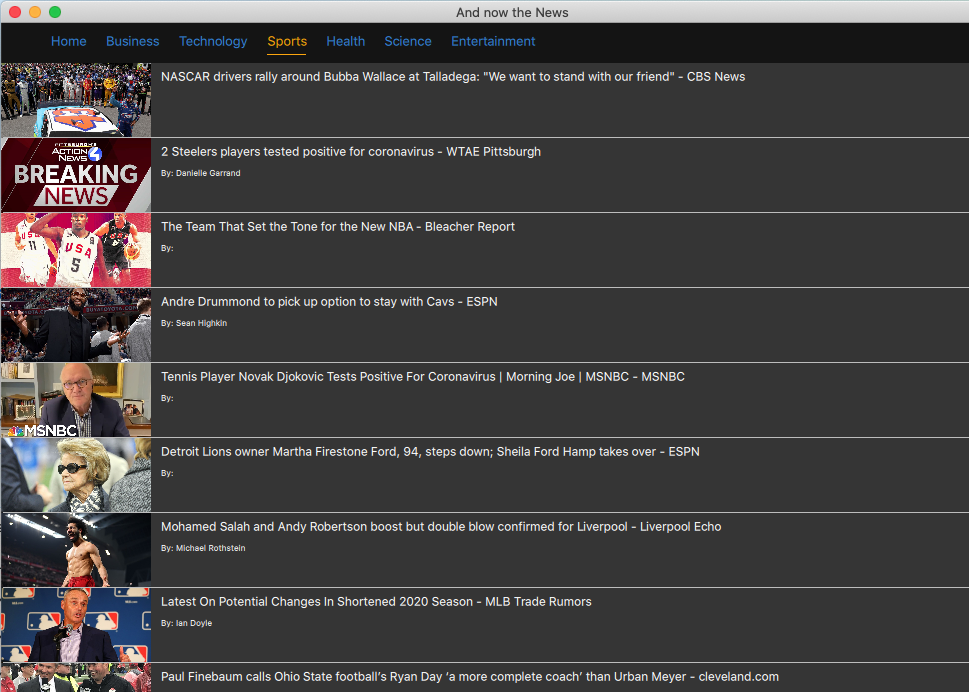
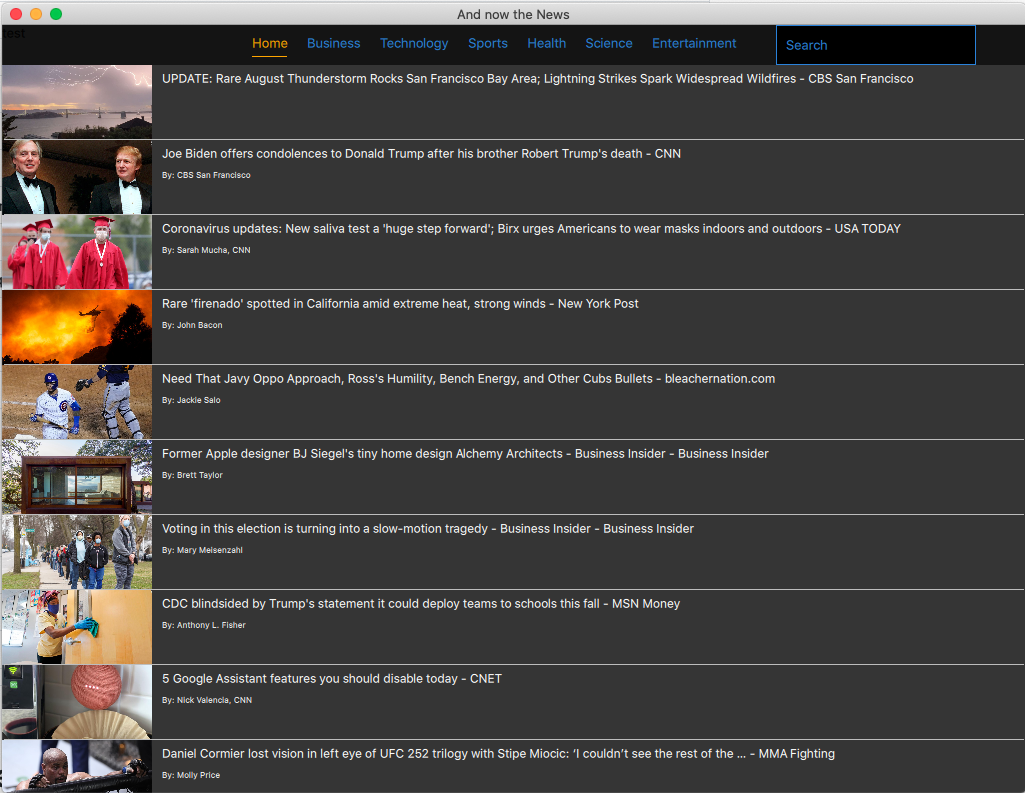
Update documentation and screenshots

Changed region(s): [[0.0, 0.0, 1.0, 1.0]]

diff --git a/README.md b/README.md
@@ -6,6 +6,8 @@ Small Qt Quick demo app. Loads a list of news items from NewsApi.org and provide
 
 The app starts off with a list to browse news stories. General news categories can be selected from the top navigation area. Selecting a new category will cause the list of news stories to update.
 
+The user can also enter keyword search which will return a list of results in the form of news stories.
+
 ![News Story List](./screencapture/news-list.png)
 
 The user can then click on a story and [QtWebEngine](https://doc.qt.io/qt-5/qtwebengine-index.html) will render it.
@@ -18,4 +20,4 @@ The splash page will display the following warning if the API key if not set:
 
 ![Api No Key Splash](./screencapture/splash-no-api-key.png)
 
-For this application to work, you'll have to create an API key from newsapi.org. Create an environment variable called 'NEWS_API_KEY' and set your api key as its value.     
+For this application to work, you'll have to create an API key from newsapi.org. After creating your key, enter it in the field here. The app will remember it from then on,     
